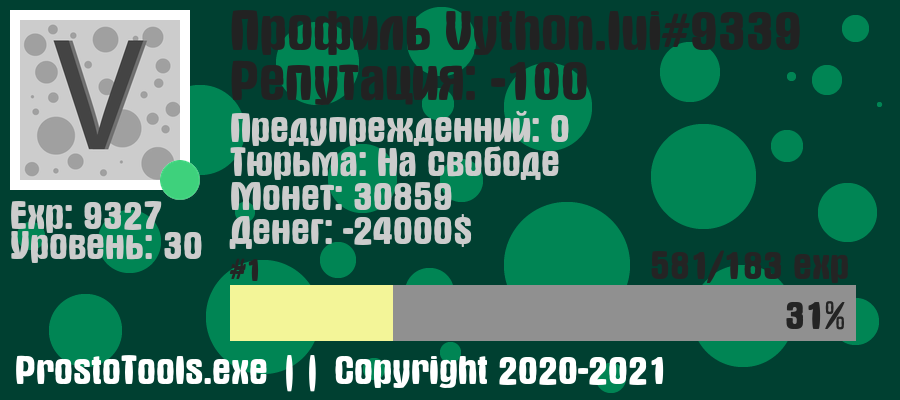
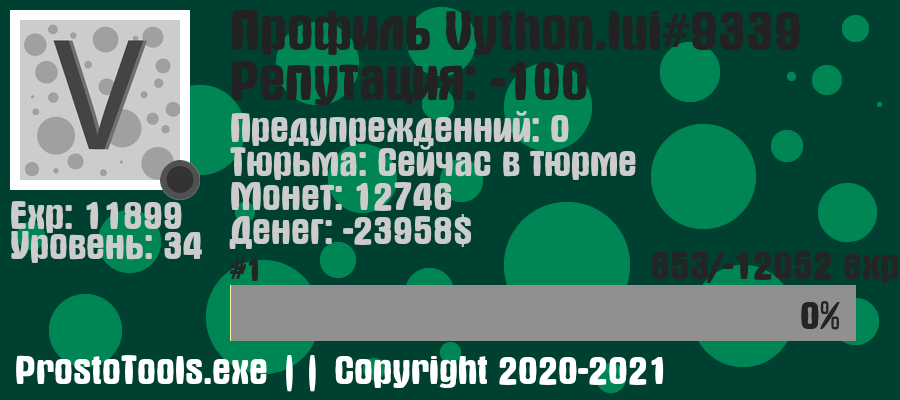
Add bot's api for cache changing

diff --git a/core/services/api/api.py b/core/services/api/api.py
@@ -1,0 +1,65 @@
+import json
+import discord
+import logging
+
+from aiohttp import web
+from pydantic import ValidationError
+from .models import CacheUpdateInRequest
+
+logger = logging.getLogger(__name__)
+
+
+class API:
+    _webserver: web.TCPSite
+
+    def __init__(self, bot: discord.Client, port: int, host: str):
+        self.bot: discord.Client = bot
+        self.port: int = port
+        self.host: str = host
+        self._app: web.Application = web.Application(middlewares=[self.middleware()])
+        self._is_ran: bool = False
+
+    def middleware(self):
+        @web.middleware
+        async def auth_require(request: web.Request, handler):
+            if request.headers.get('authorization') != self.bot.config.LOW_LEVEL_API_KEY:
+                raise web.HTTPForbidden(text='Invalid api key')
+
+            return await handler(request)
+
+        return auth_require
+
+    async def _cache_update(self, request: web.Request):
+        request_json = await request.json()
+        try:
+            CacheUpdateInRequest.validate(request_json)
+        except ValidationError as e:
+            raise web.HTTPUnprocessableEntity(text=e.json())
+
+        request_model = CacheUpdateInRequest(**request_json)
+        resp = self.bot.cache.__getattribute__(request_model.entity).update(
+            request_model.data, **request_model.query
+        )
+        return (
+            web.HTTPNotFound(body='Entity by query was not found')
+            if resp is None
+            else web.Response(status=200, text=json.dumps(resp.to_dict()))
+        )
+
+    async def run(self):
+        if not self._is_ran:
+            self._is_ran = True
+            self._app.router.add_patch('/cache/update', self._cache_update)
+
+            runner = web.AppRunner(self._app)
+            await runner.setup()
+            self._webserver = web.TCPSite(runner, self.host, self.port)
+            await self._webserver.start()
+            logger.info("Webserver is ran")
+
+    async def close(self):
+        if not self._is_ran:
+            return
+
+        await self._webserver.stop()
+        self._is_ran = False

diff --git a/core/bases/bot_base.py b/core/bases/bot_base.py
@@ -7,6 +7,7 @@ from cogs.economy.buy_cmd import buy
 from core.http import RandomAPI, HTTPClient
 from core.services.cache import Cache
 from core.services.database import Database
+from core.services.api import API
 from core.utils.other import get_prefix
 from core import Utils, SupportCommands, template_engine as temp_eng
 from core.config import Config
@@ -36,6 +37,7 @@ class ProstoTools(commands.AutoShardedBot):
         self.config = Config
         self.http_client = HTTPClient()
         self.cache = Cache()
+        self.low_level_api = API(self, port=1111, host='localhost')
         self.database = Database(client=self)
         self.utils = Utils(client=self)
         self.random_api = RandomAPI(client=self)
@@ -56,6 +58,7 @@ class ProstoTools(commands.AutoShardedBot):
             )
         )
         await self.cache.run()
+        await self.low_level_api.run()
         self.http_client.prepare(aiohttp.ClientSession(loop=self.loop))
 
     async def on_ready(self):

diff --git a/core/services/api/models.py b/core/services/api/models.py
@@ -1,0 +1,14 @@
+from pydantic import BaseModel, validator
+
+
+class CacheUpdateInRequest(BaseModel):
+    entity: str
+    query: dict
+    data: dict
+
+    @validator('entity')
+    def entity_validator(cls, value):
+        if value not in ('guilds', 'users'):
+            raise ValueError('Invalid entity')
+
+        return value

diff --git a/core/config.py b/core/config.py
@@ -17,6 +17,7 @@ class Config:
 	SOFTBAN_ROLE = 'PT-SOFT-BANNED'
 	CAPTCHA_ROLE = "PT-CHECKING"
 	COLOR_ROLE = 'PT-COLOR-'
+	LOW_LEVEL_API_KEY = os.getenv('BOT_API_KEY', default='somesuperduperapikey')
 	TOKEN = os.getenv('BOT_TOKEN')
 	DEFAULT_PREFIX = "p."
 	MESSAGE_FILTERS = (

diff --git a/core/services/cache/cache_manager.py b/core/services/cache/cache_manager.py
@@ -5,6 +5,9 @@ class CacheItem:
     def __init__(self, **kwargs):
         self._dict = {**kwargs}
 
+    def to_dict(self):
+        return self._dict
+
     def clear(self):
         return self._dict.clear()
 

diff --git a/core/services/api/__init__.py b/core/services/api/__init__.py
@@ -1,0 +1,1 @@
+from .api import API
